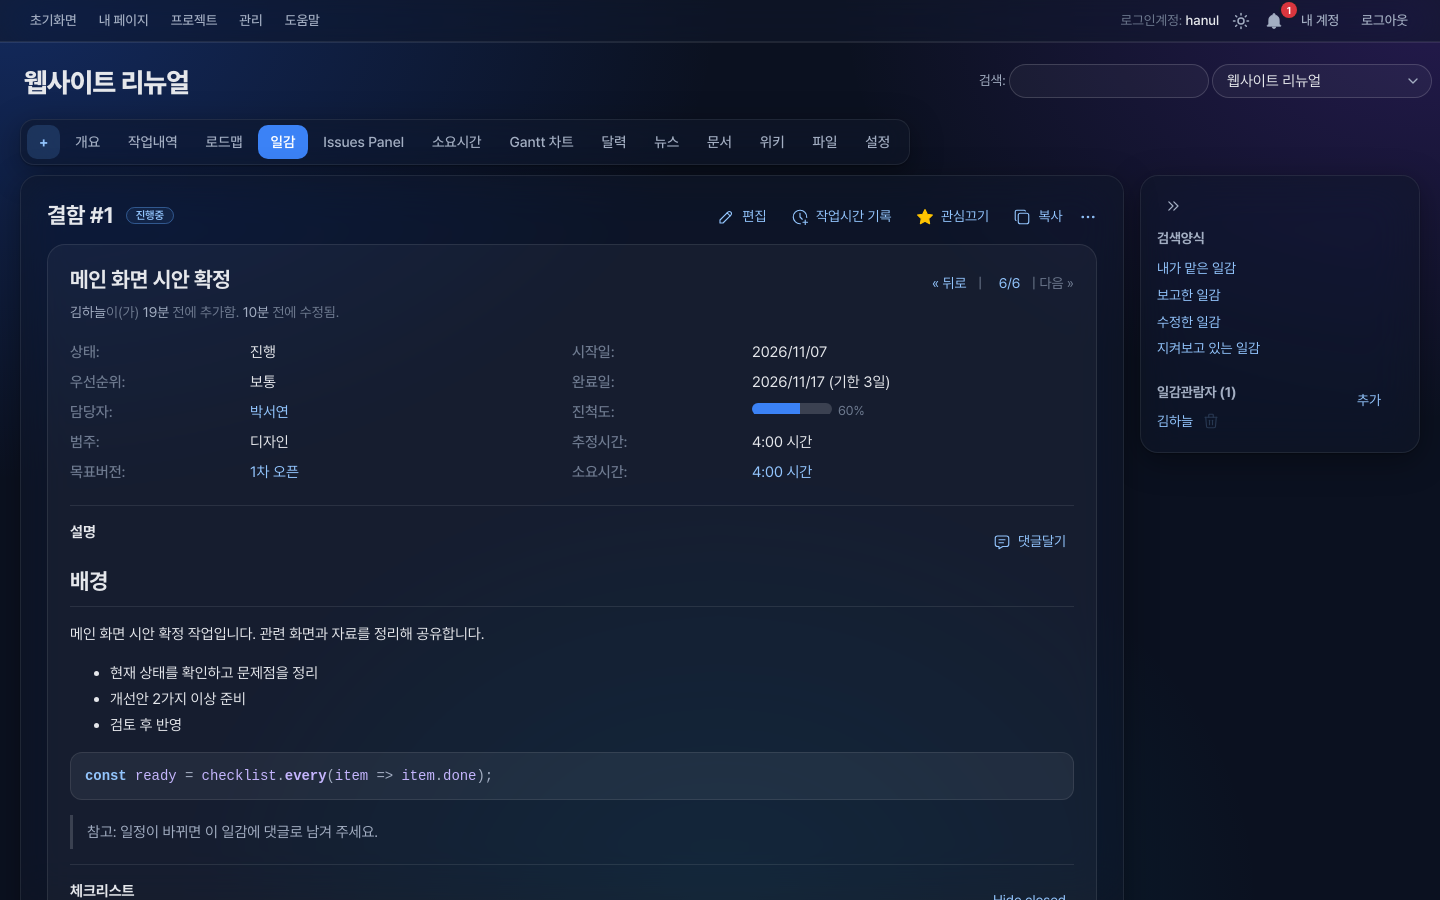
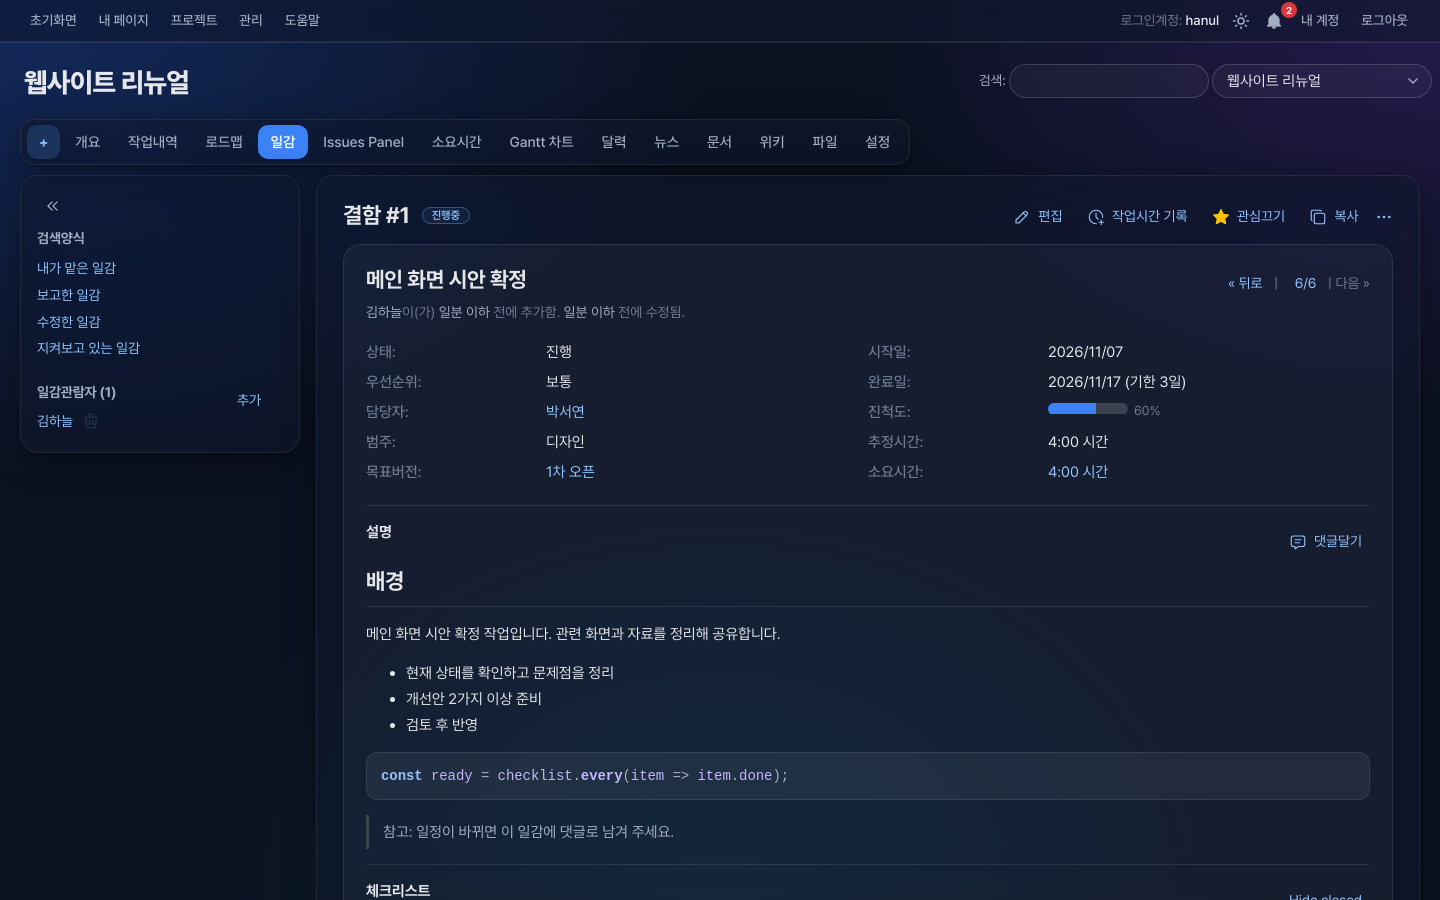
Sidebar on the left
Redmine puts the sidebar on the right with row-reverse; the theme now
lays it out on the left and mirrors the collapse arrows to match. Plugin
admin-menu entries that use a background-image icon no longer overlap
their label. Screenshots retaken.

diff --git a/stylesheets/application.css b/stylesheets/application.css
@@ -295,7 +295,9 @@ svg.icon-svg { stroke: var(--ig-accent-text); }
 /* =========================================================================================
    4. Layout: content and sidebar as glass cards
    ========================================================================================= */
+/* Sidebar on the left (Redmine puts it on the right with row-reverse) */
 #main {
+  flex-direction: row;
   padding: 0 20px 20px 20px;
   gap: 16px;
   align-items: flex-start;
@@ -326,6 +328,8 @@ svg.icon-svg { stroke: var(--ig-accent-text); }
 #sidebar-switch-panel { margin: 0 0 6px 0; padding: 0; }
 #sidebar-switch-button { padding: 4px 6px; border-radius: var(--ig-radius-sm); width: auto; display: inline-block; }
 #sidebar-switch-button:hover { background: var(--ig-hover); }
+/* The collapse arrows point toward the right-hand sidebar; mirror them for the left one */
+#sidebar-switch-button svg { transform: scaleX(-1); }
 #sidebar h3 {
   color: var(--ig-text-2);
   font-size: 0.875rem;
@@ -377,6 +381,8 @@ svg.icon-svg { stroke: var(--ig-accent-text); }
 #admin-menu a:hover { background: var(--ig-hover); color: var(--ig-text); }
 #admin-menu a svg.icon-svg { stroke: currentColor; }
 #admin-menu a.selected { background: var(--ig-accent-soft) !important; color: var(--ig-accent-text) !important; margin-left: 0; }
+/* Plugin entries with a background-image icon instead of an SVG */
+#admin-menu a:not(:has(svg)) { padding-left: 32px !important; background-position: 10px 50%; }
 
 /* =========================================================================================
    5. Forms and buttons

diff --git a/README.ko.md b/README.ko.md
@@ -27,7 +27,7 @@
 
 ## 특징
 
-- **유리 패널.** 본문과 사이드바, 상단 메뉴는 흐림 효과(`backdrop-filter`)가 들어간 반투명 카드입니다.
+- **유리 패널.** 본문과 왼쪽 사이드바, 상단 메뉴는 흐림 효과(`backdrop-filter`)가 들어간 반투명 카드입니다.
 - **포인트 색 하나.** 선택된 메뉴, 주 버튼, 탭, 진행 막대, 링크를 블루(`#2563EB`) 하나로 통일했습니다.
 - **라이트와 다크.** 처음에는 운영체제 설정을 따르고, 오른쪽 위의 해/달 버튼으로 바꿀 수 있습니다. 선택은 브라우저에 저장됩니다.
 - **휴대폰.** 일감 목록은 카드로 바뀌고, 입력창은 크게 표시합니다. 입력창 글자는 16px이라 iPhone에서 화면이 확대되지 않습니다.

diff --git a/README.md b/README.md
@@ -27,7 +27,7 @@ The screenshots use a Korean interface. The projects, names and issues in them a
 
 ## Features
 
-- **Glass panels.** The content area, the sidebar and the top menu are translucent cards with a `backdrop-filter` blur.
+- **Glass panels.** The content area, the left-hand sidebar and the top menu are translucent cards with a `backdrop-filter` blur.
 - **One accent color.** The selected menu item, primary buttons, tabs, progress bars and links all use one blue (`#2563EB`).
 - **Light and dark.** The theme follows the operating system at first. The sun/moon button at the top right switches it, and the choice is saved in the browser.
 - **Phones.** The issue list turns into cards and form fields get bigger. Inputs use 16px text, so iPhones don't zoom in on them.
